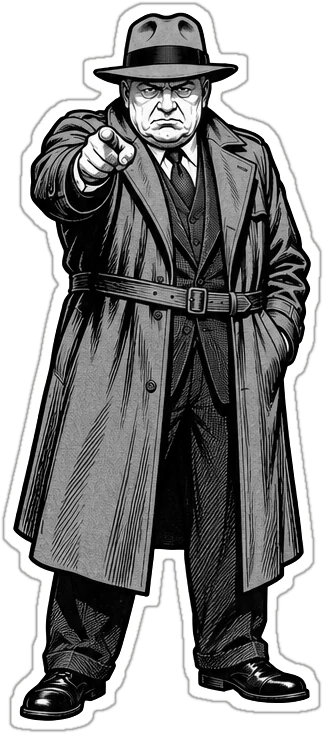
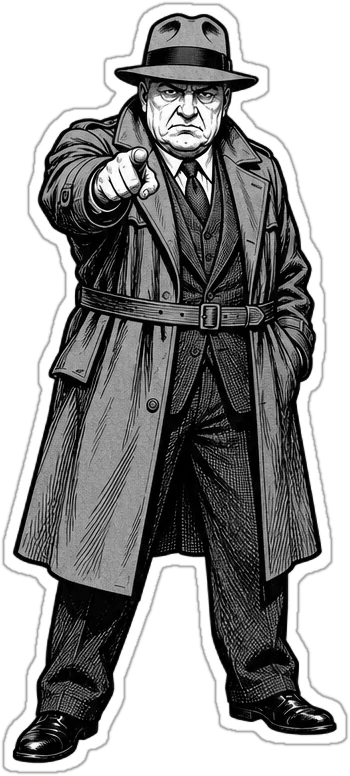
The Precinct: Harlan Vance's faces, and his poses redrawn

diff --git a/the-precinct/theme.js b/the-precinct/theme.js
@@ -468,8 +468,10 @@ export default {
   // The files are img/stickers/<dir>/<file>.webp (see-through) and <file>-b.webp (white border).
   stickers: [
     { who: 'Harlan Vance', dir: 'vance', items: [
-      ['standing', 'Standing', 36], ['side', 'Side on', 28], ['walking-away', 'Walking away', 34],
-      ['pointing', 'Pointing', 35], ['arms-folded', 'Arms folded', 36], ['on-the-phone', 'On the telephone', 36],
+      ['standing', 'Standing', 35], ['side', 'Side on', 24], ['walking-away', 'Walking away', 32],
+      ['pointing', 'Pointing', 37], ['arms-folded', 'Arms folded', 36], ['on-the-phone', 'On the telephone', 36],
+      ['face-stare', 'Cold stare', 38, 'face'], ['face-scowl', 'Scowl', 38, 'face'], ['face-smug', 'Smug smile', 37, 'face'],
+      ['face-shouting', 'Shouting', 37, 'face'], ['face-suspicious', 'Suspicious', 38, 'face'], ['face-caught', 'Caught off guard', 38, 'face'],
       ['fedora', 'Fedora', 24, 'thing'], ['telephone', 'Telephone', 22, 'thing'], ['case-file', 'Case file', 23, 'thing'],
       ['envelope', 'Envelope', 25, 'thing'], ['pocket-watch', 'Pocket watch', 19, 'thing'], ['stamp', 'Rubber stamp', 23, 'thing'],
     ] },
